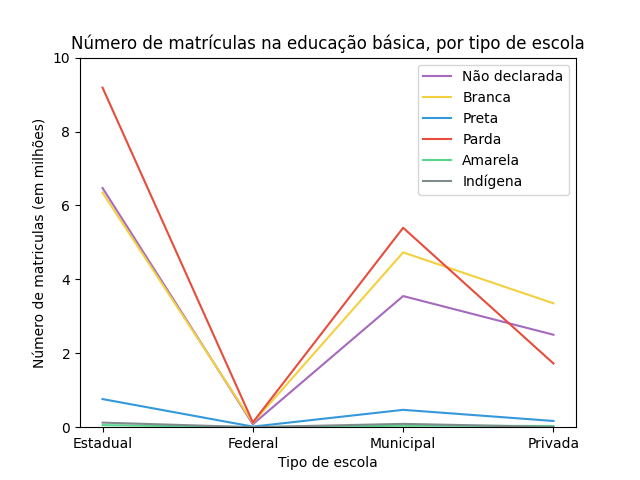
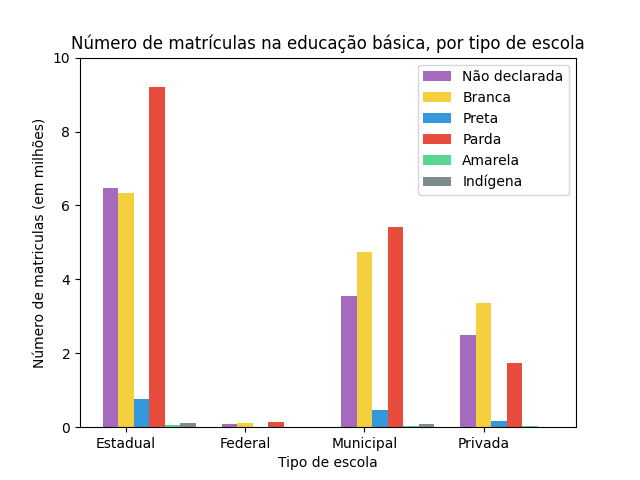
gráfico modificado

diff --git a/analise_alessandra/funcoes_grafico.py b/analise_alessandra/funcoes_grafico.py
@@ -1,4 +1,5 @@
 import matplotlib.pyplot as plt
+import numpy as np
 
 def grafico_de_linha_6_var (var1, var2, var3, var4, var5, var6, label1, label2, label3, label4, label5, label6, cor1, cor2, 
                       cor3, cor4, cor5, cor6, lim_inf_y, lim_sup_y, titulo, x_label, y_label, nome_figura):
@@ -64,15 +65,25 @@ def grafico_de_linha_6_var (var1, var2, var3, var4, var5, var6, label1, label2, 
 
     figura = plt.figure()
     #O bloco abaixo plota as 6 variáveis em um único gráfico
-    plt.plot(var1, label=label1, color=cor1)
-    plt.plot(var2, label=label2, color=cor2)
-    plt.plot(var3, label=label3, color=cor3)
-    plt.plot(var4, label=label4, color=cor4)
-    plt.plot(var5, label=label5, color=cor5)
-    plt.plot(var6, label=label6, color=cor6)
+    barWidht=0.13
+
+    p1 = np.arange(len(var1))
+    p2 = [x + barWidht for x in p1]
+    p3 = [x + barWidht for x in p2]
+    p4 = [x + barWidht for x in p3]
+    p5 = [x + barWidht for x in p4]
+    p6 = [x + barWidht for x in p5]
+
+    plt.bar(p1, var1, label=label1, color=cor1, width=barWidht)
+    plt.bar(p2, var2, label=label2, color=cor2, width=barWidht)
+    plt.bar(p3, var3, label=label3, color=cor3, width=barWidht)
+    plt.bar(p4, var4, label=label4, color=cor4, width=barWidht)
+    plt.bar(p5, var5, label=label5, color=cor5, width=barWidht)
+    plt.bar(p6, var6, label=label6, color=cor6, width=barWidht)
     plt.ylim(bottom=lim_inf_y, top=lim_sup_y)
     plt.title(titulo)
     plt.xlabel(x_label)
+    plt.xticks([p + barWidht for p in range(len(var1))], ["Estadual", "Federal", "Municipal", "Privada"])
     plt.ylabel(y_label)
     #adiciona legenda ao gráfico, pois são várias variáveis
     plt.legend()

diff --git a/analise_alessandra/analise_ale.py b/analise_alessandra/analise_ale.py
@@ -20,11 +20,11 @@ df = fs.trocar_valor(df, "TP_DEPENDENCIA", {1:"Federal", 2 : "Municipal", 3: "Es
 
 #contando o número de matriculas por raça
 nao_declarada = (fs.somar_valores_agrupado(df, "QT_MAT_BAS_ND", "TP_DEPENDENCIA"))/1000000
-branca = (fs.somar_valores_agrupado(df, "QT_MAT_BAS_BRANCA", "TP_DEPENDENCIA"))/1000000
-preta = (fs.somar_valores_agrupado(df, "QT_MAT_BAS_PRETA", "TP_DEPENDENCIA"))/1000000
-parda = (fs.somar_valores_agrupado(df,"QT_MAT_BAS_PARDA", "TP_DEPENDENCIA"))/1000000
-amarela = (fs.somar_valores_agrupado(df, "QT_MAT_BAS_AMARELA", "TP_DEPENDENCIA"))/1000000
-indigena = (fs.somar_valores_agrupado(df, "QT_MAT_BAS_INDIGENA", "TP_DEPENDENCIA"))/1000000
+branca = list((fs.somar_valores_agrupado(df, "QT_MAT_BAS_BRANCA", "TP_DEPENDENCIA"))/1000000)
+preta = list((fs.somar_valores_agrupado(df, "QT_MAT_BAS_PRETA", "TP_DEPENDENCIA"))/1000000)
+parda = list((fs.somar_valores_agrupado(df,"QT_MAT_BAS_PARDA", "TP_DEPENDENCIA"))/1000000)
+amarela = list((fs.somar_valores_agrupado(df, "QT_MAT_BAS_AMARELA", "TP_DEPENDENCIA"))/1000000)
+indigena = list((fs.somar_valores_agrupado(df, "QT_MAT_BAS_INDIGENA", "TP_DEPENDENCIA"))/1000000)
 
 #plotando o gráfico
 grafico = fg.grafico_de_linha_6_var(nao_declarada, branca, preta, parda, amarela, indigena, "Não declarada", "Branca", 
